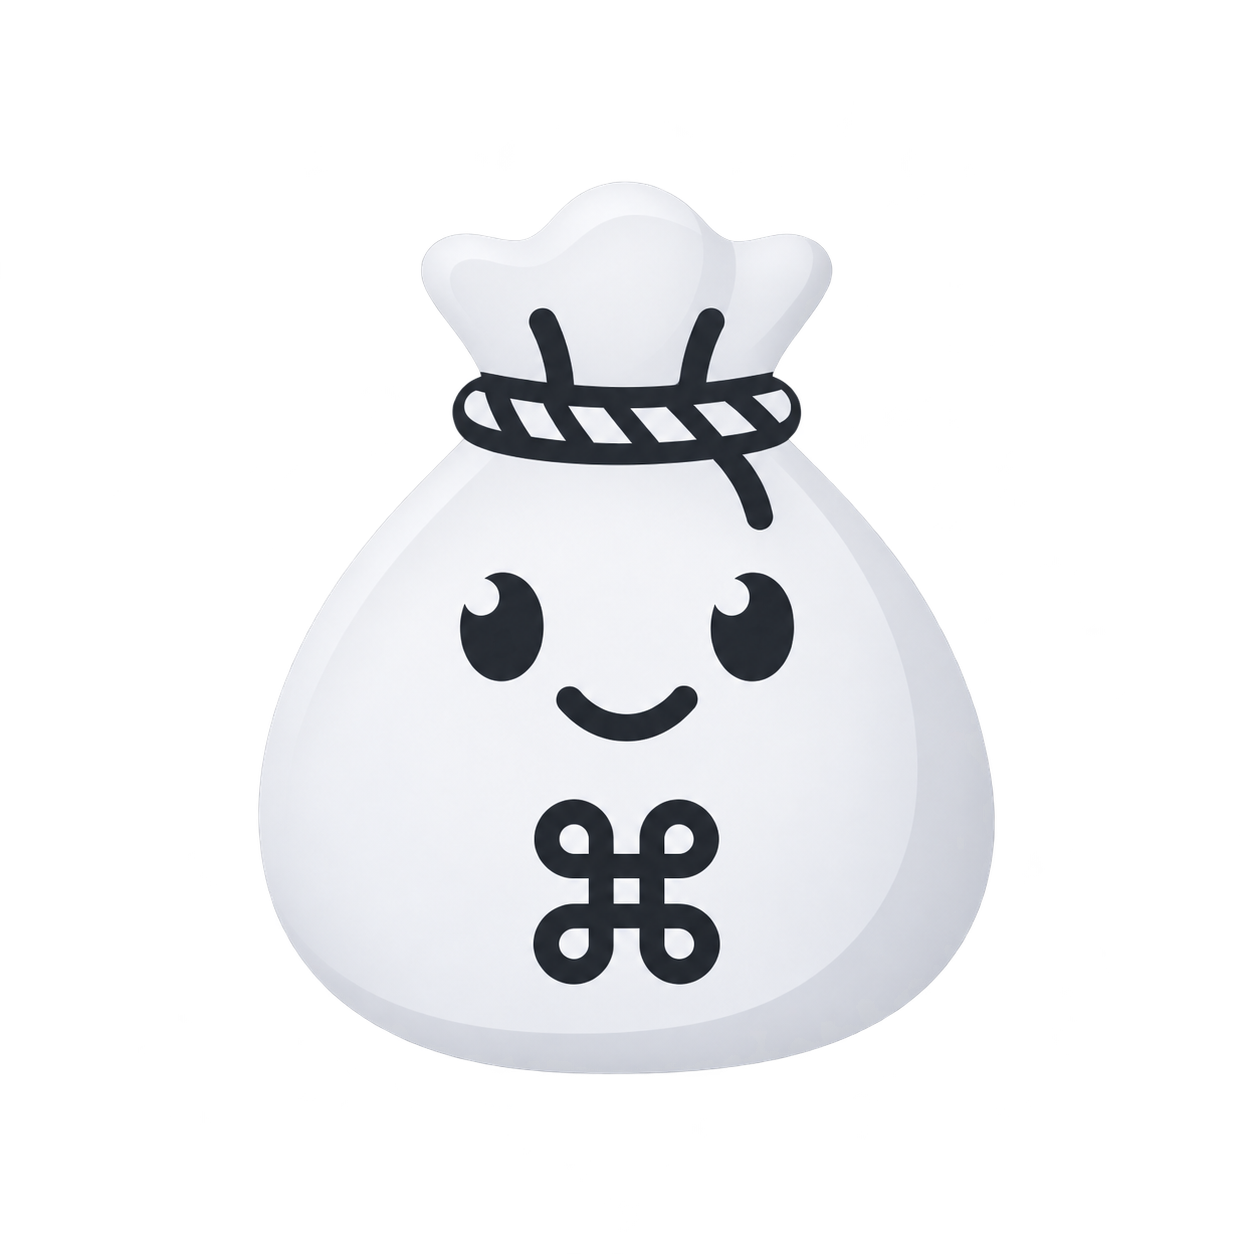
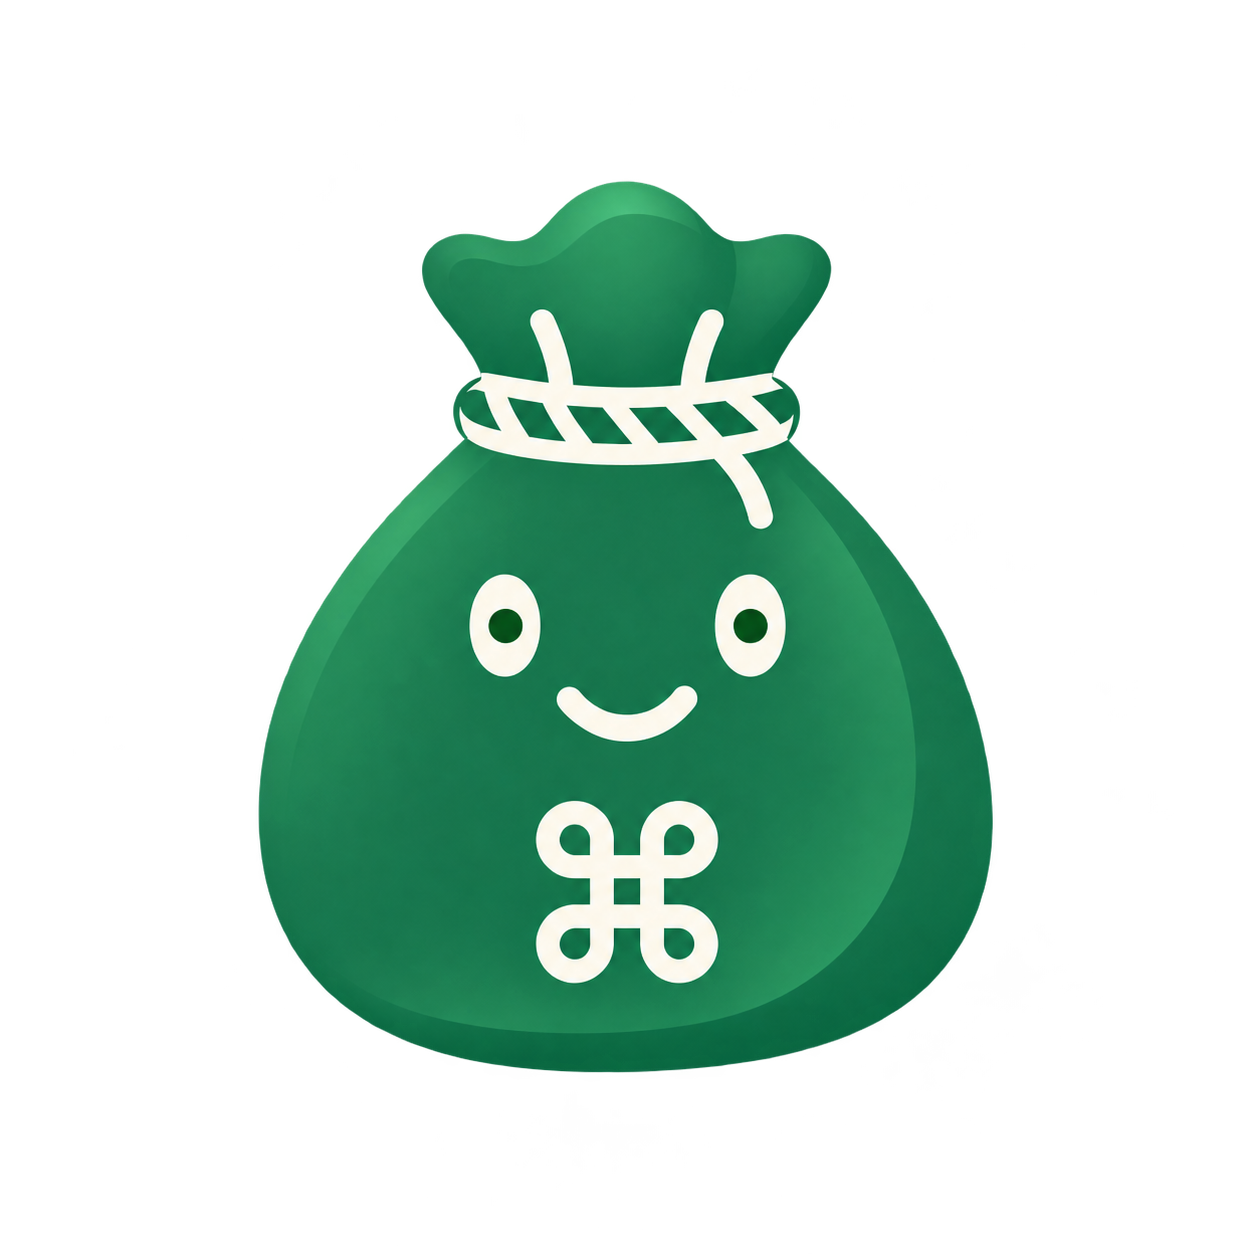
Use green theme mascots with a centered forward gaze

Changed region(s): [[0.1866, 0.1244, 0.8086, 0.8708]]

diff --git a/Tests/CliphoardTests/BrandIconTests.swift b/Tests/CliphoardTests/BrandIconTests.swift
@@ -25,7 +25,37 @@ final class BrandIconTests: XCTestCase {
             XCTAssertGreaterThan(fabric.alphaComponent, 0.99)
             brightness.append((fabric.redComponent + fabric.greenComponent + fabric.blueComponent) / 3)
         }
-        XCTAssertLessThan(brightness[0], 0.4, "Light themes use the charcoal mascot")
-        XCTAssertGreaterThan(brightness[1], 0.7, "Dark themes use the ivory mascot")
+        XCTAssertLessThan(brightness[0], 0.4, "Light themes use the deeper green mascot")
+        XCTAssertGreaterThan(brightness[1], 0.7, "Dark themes use the lighter green mascot")
     }
+    func testPupilsAreCenteredWithinBothEyeWhites() throws {
+        for scheme in [ColorScheme.light, .dark] {
+            let image = try XCTUnwrap(BrandIcon.load(for: scheme, resourceDirectory: resources))
+            let bitmap = try XCTUnwrap(NSBitmapImageRep(data: try XCTUnwrap(image.tiffRepresentation)))
+            let width = bitmap.pixelsWide
+            let height = bitmap.pixelsHigh
+            for xRange in [0.30...0.47, 0.53...0.67] {
+                var eyePixels: [(Int, Int)] = []
+                for y in Int(Double(height) * 0.45)...Int(Double(height) * 0.54) {
+                    for x in Int(Double(width) * xRange.lowerBound)...Int(Double(width) * xRange.upperBound) {
+                        guard let color = bitmap.colorAt(x: x, y: y)?.usingColorSpace(.deviceRGB) else { continue }
+                        if color.alphaComponent > 0.99 && color.redComponent > 0.85 &&
+                            color.greenComponent > 0.85 && color.blueComponent > 0.75 {
+                            eyePixels.append((x, y))
+                        }
+                    }
+                }
+                let left = try XCTUnwrap(eyePixels.map { $0.0 }.min())
+                let right = try XCTUnwrap(eyePixels.map { $0.0 }.max())
+                let top = try XCTUnwrap(eyePixels.map { $0.1 }.min())
+                let bottom = try XCTUnwrap(eyePixels.map { $0.1 }.max())
+                let center = try XCTUnwrap(bitmap.colorAt(x: (left + right) / 2,
+                    y: (top + bottom) / 2)?.usingColorSpace(.deviceRGB))
+                XCTAssertLessThan(center.redComponent, 0.3)
+                XCTAssertGreaterThan(center.greenComponent, center.redComponent + 0.1,
+                    "The green pupil sits at the center of each ivory eye")
+            }
+        }
+    }
+
 }

diff --git a/Scripts/audit-no-models.py b/Scripts/audit-no-models.py
@@ -30,8 +30,8 @@ def check_environment(environment):
 
 
 BRAND_ICON_PINS = {
[4 lines of base64/hex data omitted]
 }
 
 TEXT_RESOURCES = {"LICENSE", "LICENSE-Apache-2.0.txt", "THIRD-PARTY-NOTICES.md"}
